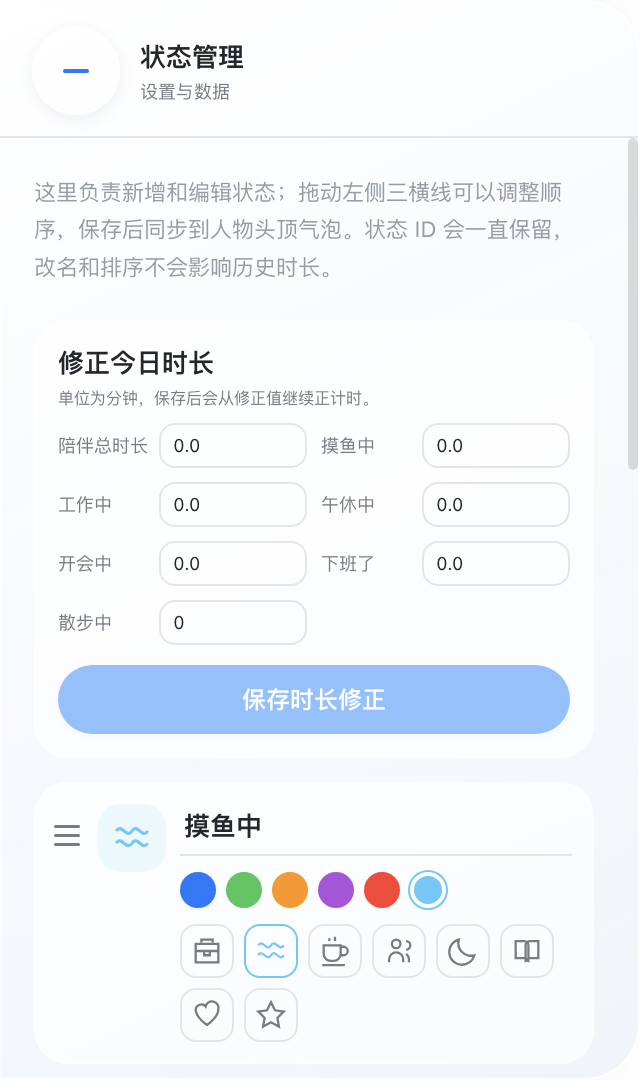
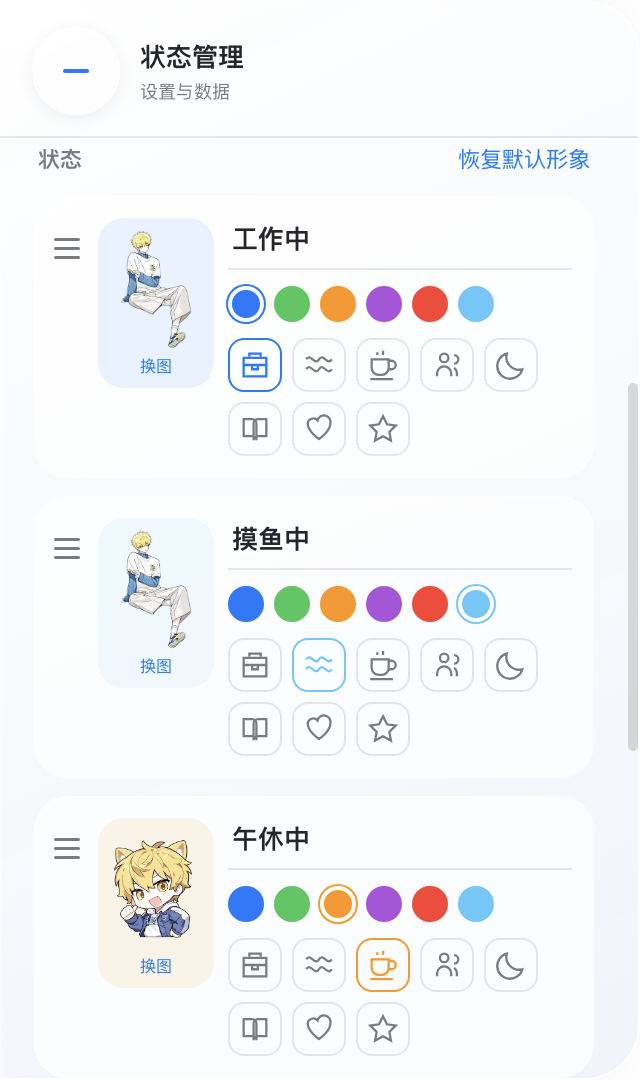
Pick each state's pet image in 状态管理; 贴图库 is library-only; reorder settings

diff --git a/src/renderer/src/WorkStateSettingsPanel.tsx b/src/renderer/src/WorkStateSettingsPanel.tsx
@@ -1,4 +1,5 @@
 import { useEffect,useState } from 'react'
+import type { SpriteKey, SpriteMap, UserSpriteItem } from '../../preload'
 import { DEFAULT_WORK_STATES,WORK_STATE_COLORS,WORK_STATE_ICONS,WORK_STATE_PATHS,type WorkStateDefinition } from '../../shared/workStates'
 
 export default function WorkStateSettingsPanel():React.JSX.Element{
@@ -6,6 +7,24 @@ export default function WorkStateSettingsPanel():React.JSX.Element{
   const [saved,setSaved]=useState(false)
   const [draggingId,setDraggingId]=useState<string|null>(null)
   const [dropTargetId,setDropTargetId]=useState<string|null>(null)
+  // Pet image per state: focus uses the idle image, other states `state-<id>` (falling back to the focus image).
+  const [sprites,setSprites]=useState<SpriteMap>({})
+  const [library,setLibrary]=useState<UserSpriteItem[]>([])
+  const [pickingFor,setPickingFor]=useState<string|null>(null)
+  const [confirmUnify,setConfirmUnify]=useState<string|null>(null)
+  const [confirmReset,setConfirmReset]=useState(false)
+  useEffect(()=>{
+    const load=()=>{window.api.getSprites().then(setSprites);window.api.getUserSprites().then(setLibrary)}
+    load()
+    return window.api.onSpritesUpdated(next=>{setSprites(next);window.api.getUserSprites().then(setLibrary)})
+  },[])
+  const spriteKey=(id:string):SpriteKey=>id==='focus'?'idle':`state-${id}`
+  const petImage=(id:string)=>sprites[spriteKey(id)]??sprites.idle??(id==='focus'?'./cat/idle.svg':'./cat/sleep.svg')
+  const useSticker=async(id:string,stickerId:string)=>{const url=await window.api.applyUserSpriteToPose(stickerId,spriteKey(id));if(url){setSprites(current=>({...current,[spriteKey(id)]:url}));setPickingFor(null)}}
+  const upload=async(id:string)=>{const url=await window.api.pickSprite(spriteKey(id));if(url){setSprites(current=>({...current,[spriteKey(id)]:url}));setPickingFor(null)}}
+  const unify=async(id:string)=>{const next=await window.api.unifyStateSprites(spriteKey(id));if(next)setSprites(next);setConfirmUnify(null);setPickingFor(null)}
+  const resetImages=async()=>{setSprites(await window.api.resetStateSprites());setConfirmReset(false)}
+  const hasCustomImages=Object.keys(sprites).some(key=>key==='idle'||key.startsWith('state-'))
   const [durationMinutes,setDurationMinutes]=useState<Record<string,string>>({})
   const [durationDirty,setDurationDirty]=useState<string[]>([])
   const loadDurations=async()=>{const snapshot=await window.api.getWorkState();setDurationMinutes({companion:(snapshot.companionSeconds/60).toFixed(1),...Object.fromEntries(Object.entries(snapshot.durations).map(([id,seconds])=>[id,(seconds/60).toFixed(1)]))});setDurationDirty([])}
@@ -16,5 +35,5 @@ export default function WorkStateSettingsPanel():React.JSX.Element{
   const moveBy=(id:string,delta:number)=>{setStates(items=>{const from=items.findIndex(item=>item.id===id),to=Math.max(0,Math.min(items.length-1,from+delta));if(from<0||from===to)return items;const next=[...items],[moved]=next.splice(from,1);next.splice(to,0,moved);return next});setSaved(false)}
   const changeDuration=(id:string,value:string)=>{setDurationMinutes(current=>({...current,[id]:value}));setDurationDirty(current=>current.includes(id)?current:[...current,id])}
   const saveDurations=async()=>{for(const id of durationDirty){const minutes=Number(durationMinutes[id]);if(!Number.isFinite(minutes)||minutes<0)return;await window.api.correctTodayDuration(id,minutes*60)}await loadDurations()}
-  return <div className="work-state-settings embedded-settings-panel"><p className="sprite-hint">这里负责新增和编辑状态；拖动左侧三横线可以调整顺序，保存后同步到人物头顶气泡。状态 ID 会一直保留，改名和排序不会影响历史时长。</p><section className="duration-correction"><div><strong>修正今日时长</strong><small>单位为分钟，保存后会从修正值继续正计时。</small></div><label><span>陪伴总时长</span><input aria-label="修正陪伴总时长" type="number" min="0" step="0.1" value={durationMinutes.companion??''} onChange={e=>changeDuration('companion',e.target.value)}/></label>{states.map(state=><label key={state.id}><span>{state.label}</span><input aria-label={`修正${state.label}时长`} type="number" min="0" step="0.1" value={durationMinutes[state.id]??'0'} onChange={e=>changeDuration(state.id,e.target.value)}/></label>)}<button className="primary-button" disabled={!durationDirty.length||durationDirty.some(id=>!Number.isFinite(Number(durationMinutes[id]))||Number(durationMinutes[id])<0)} onClick={()=>void saveDurations()}>保存时长修正</button></section><div className="work-state-editor-list">{states.map((state,index)=><div className={`work-state-editor${draggingId===state.id?' is-dragging':''}${dropTargetId===state.id&&draggingId!==state.id?' is-drop-target':''}`} key={state.id} style={{'--state-color':state.color} as React.CSSProperties} onDragOver={event=>{event.preventDefault();event.dataTransfer.dropEffect='move';setDropTargetId(state.id)}} onDragLeave={event=>{if(!event.currentTarget.contains(event.relatedTarget as Node))setDropTargetId(current=>current===state.id?null:current)}} onDrop={event=>{event.preventDefault();const source=draggingId||event.dataTransfer.getData('text/plain');if(source)moveTo(source,state.id);setDraggingId(null);setDropTargetId(null)}}><button className="state-drag-handle" type="button" draggable aria-label={`拖动${state.label}调整顺序`} title="拖动调整顺序" onDragStart={event=>{event.dataTransfer.effectAllowed='move';event.dataTransfer.setData('text/plain',state.id);setDraggingId(state.id)}} onDragEnd={()=>{setDraggingId(null);setDropTargetId(null)}} onKeyDown={event=>{if(event.key==='ArrowUp'){event.preventDefault();moveBy(state.id,-1)}else if(event.key==='ArrowDown'){event.preventDefault();moveBy(state.id,1)}}}><span/><span/><span/></button><div className="work-state-editor-icon"><svg viewBox="0 0 24 24" fill="none" stroke="currentColor" strokeWidth="1.7"><path d={WORK_STATE_PATHS[state.icon]}/></svg></div><div className="work-state-editor-main"><input aria-label={`状态名称 ${index+1}`} maxLength={12} value={state.label} onChange={e=>update(state.id,{label:e.target.value})}/><div className="state-palette">{WORK_STATE_COLORS.map(color=><button key={color} aria-label={`状态颜色 ${color}`} className={state.color===color?'selected':''} style={{background:color}} onClick={()=>update(state.id,{color})}/>)}</div><div className="state-icons">{WORK_STATE_ICONS.map(icon=><button key={icon} aria-label={`状态图标 ${icon}`} className={state.icon===icon?'selected':''} onClick={()=>update(state.id,{icon})}><svg viewBox="0 0 24 24" fill="none" stroke="currentColor" strokeWidth="1.6"><path d={WORK_STATE_PATHS[icon]}/></svg></button>)}</div></div></div>)}</div><button className="state-add" onClick={add}>＋ 添加状态</button><button className="primary-button state-save" disabled={states.some(s=>!s.label.trim())} onClick={async()=>{setStates(await window.api.setWorkStates(states));setSaved(true)}}>{saved?'已保存':'保存状态'}</button></div>
+  return <div className="work-state-settings embedded-settings-panel"><p className="sprite-hint">点左边的图片换这个状态的桌宠形象（立即生效）；右边改名称、颜色和图标，拖动三横线调整顺序，点「保存状态」后同步到头顶气泡。改名和排序不会影响历史时长和形象。</p><section className="duration-correction"><div><strong>修正今日时长</strong><small>单位为分钟，保存后会从修正值继续正计时。</small></div><label><span>陪伴总时长</span><input aria-label="修正陪伴总时长" type="number" min="0" step="0.1" value={durationMinutes.companion??''} onChange={e=>changeDuration('companion',e.target.value)}/></label>{states.map(state=><label key={state.id}><span>{state.label}</span><input aria-label={`修正${state.label}时长`} type="number" min="0" step="0.1" value={durationMinutes[state.id]??'0'} onChange={e=>changeDuration(state.id,e.target.value)}/></label>)}<button className="primary-button" disabled={!durationDirty.length||durationDirty.some(id=>!Number.isFinite(Number(durationMinutes[id]))||Number(durationMinutes[id])<0)} onClick={()=>void saveDurations()}>保存时长修正</button></section><div className="state-images-heading"><strong>状态</strong><button className="text-button" disabled={!hasCustomImages} onClick={()=>setConfirmReset(true)}>恢复默认形象</button></div>{confirmReset&&<div className="sprite-unify-confirm state-images-confirm" role="group" aria-label="确认恢复默认形象"><span>所有状态都恢复成默认的猫？贴图库里的图不受影响。</span><button onClick={()=>setConfirmReset(false)}>取消</button><button className="primary-button" onClick={()=>void resetImages()}>恢复</button></div>}<div className="work-state-editor-list">{states.map((state,index)=><div className={`work-state-editor${draggingId===state.id?' is-dragging':''}${dropTargetId===state.id&&draggingId!==state.id?' is-drop-target':''}`} key={state.id} style={{'--state-color':state.color} as React.CSSProperties} onDragOver={event=>{event.preventDefault();event.dataTransfer.dropEffect='move';setDropTargetId(state.id)}} onDragLeave={event=>{if(!event.currentTarget.contains(event.relatedTarget as Node))setDropTargetId(current=>current===state.id?null:current)}} onDrop={event=>{event.preventDefault();const source=draggingId||event.dataTransfer.getData('text/plain');if(source)moveTo(source,state.id);setDraggingId(null);setDropTargetId(null)}}><button className="state-drag-handle" type="button" draggable aria-label={`拖动${state.label}调整顺序`} title="拖动调整顺序" onDragStart={event=>{event.dataTransfer.effectAllowed='move';event.dataTransfer.setData('text/plain',state.id);setDraggingId(state.id)}} onDragEnd={()=>{setDraggingId(null);setDropTargetId(null)}} onKeyDown={event=>{if(event.key==='ArrowUp'){event.preventDefault();moveBy(state.id,-1)}else if(event.key==='ArrowDown'){event.preventDefault();moveBy(state.id,1)}}}><span/><span/><span/></button><button className={`state-image-tile${pickingFor===state.id?' active':''}`} aria-label={`更换「${state.label}」的桌宠形象`} aria-expanded={pickingFor===state.id} onClick={()=>{setConfirmUnify(null);setPickingFor(current=>current===state.id?null:state.id)}}><img src={petImage(state.id)} alt=""/><span>换图</span></button><div className="work-state-editor-main"><input aria-label={`状态名称 ${index+1}`} maxLength={12} value={state.label} onChange={e=>update(state.id,{label:e.target.value})}/><div className="state-palette">{WORK_STATE_COLORS.map(color=><button key={color} aria-label={`状态颜色 ${color}`} className={state.color===color?'selected':''} style={{background:color}} onClick={()=>update(state.id,{color})}/>)}</div><div className="state-icons">{WORK_STATE_ICONS.map(icon=><button key={icon} aria-label={`状态图标 ${icon}`} className={state.icon===icon?'selected':''} onClick={()=>update(state.id,{icon})}><svg viewBox="0 0 24 24" fill="none" stroke="currentColor" strokeWidth="1.6"><path d={WORK_STATE_PATHS[icon]}/></svg></button>)}</div></div>{pickingFor===state.id&&<div className="sprite-pose-picker state-image-picker" aria-label={`为「${state.label}」选择桌宠形象`}>{library.length?<div className="sprite-pose-picker-grid">{library.map(item=><button key={item.id} title={item.name} aria-label={`${state.label}使用 ${item.name}`} aria-pressed={sprites[spriteKey(state.id)]===item.url} className={sprites[spriteKey(state.id)]===item.url?'selected':''} onClick={()=>void useSticker(state.id,item.id)}><img src={item.url} alt=""/><span>{item.name}</span></button>)}</div>:<p className="sprite-library-empty">贴图库还是空的，可以直接从电脑上传</p>}{confirmUnify===state.id?<div className="sprite-unify-confirm" role="group" aria-label="确认统一状态形象"><span>所有状态都换成这张图？各状态单独选的图会被替换。</span><button onClick={()=>setConfirmUnify(null)}>取消</button><button className="primary-button" onClick={()=>void unify(state.id)}>统一</button></div>:<div className="sprite-pose-picker-actions"><button aria-label={`所有状态都用「${state.label}」的图`} onClick={()=>setConfirmUnify(state.id)}>全部统一</button><button onClick={()=>setPickingFor(null)}>收起</button><button className="primary-button" onClick={()=>void upload(state.id)}>从电脑上传…</button></div>}</div>}</div>)}</div><button className="state-add" onClick={add}>＋ 添加状态</button><button className="primary-button state-save" disabled={states.some(s=>!s.label.trim())} onClick={async()=>{setStates(await window.api.setWorkStates(states));setSaved(true)}}>{saved?'已保存':'保存状态'}</button></div>
 }

diff --git a/src/renderer/src/SpriteSettingsPanel.tsx b/src/renderer/src/SpriteSettingsPanel.tsx
@@ -1,70 +1,9 @@
 import { Fragment, useEffect, useRef, useState } from 'react'
-import type { SpriteKey, SpriteMap, UserSpriteItem } from '../../preload'
-import type { WorkStateDefinition } from '../../shared/workStates'
-
-type Pose =
-  | 'idle'
-  | 'sleep'
-  | 'notifyIcon'
-
-const DEFAULT_IMAGES: Record<Pose, string> = {
-  idle: './cat/idle.svg',
-  sleep: './cat/sleep.svg',
-  notifyIcon: './cat/notifyIcon.svg'
-}
+import type { UserSpriteItem } from '../../preload'
 
 
-/** One work state: its current image, with the sticker library laid out beside it to pick from. */
-function StateSpriteRow({
-  pose,
-  label,
-  defaultUrl,
-  customUrl,
-  inheritedUrl,
-  library,
-  onUpload,
-  onUseLibrary,
-  onUnify
-}: {
-  pose: SpriteKey
-  label: string
-  defaultUrl: string
-  customUrl?: string
-  /** Image actually shown when this state has none of its own. */
-  inheritedUrl?: string
-  library: UserSpriteItem[]
-  onUpload: (pose: SpriteKey) => void
-  onUseLibrary: (pose: SpriteKey, id: string) => void
-  /** Give every state this row's current image. */
-  onUnify: (pose: SpriteKey) => void
-}): React.JSX.Element {
-  const [confirmUnify, setConfirmUnify] = useState(false)
-  const shown = customUrl ?? inheritedUrl ?? defaultUrl
-  const stripRef = useRef<HTMLDivElement>(null)
-  // Bring the selected sticker into view inside its strip (without scrolling the panel).
-  useEffect(() => {
-    const strip = stripRef.current, selected = strip?.querySelector<HTMLElement>('button.selected')
-    if (strip && selected) strip.scrollLeft = selected.offsetLeft - strip.offsetLeft - (strip.clientWidth - selected.offsetWidth) / 2
-  }, [customUrl, library.length])
-  return (
-    <div className="state-sprite-row">
-      <div className="state-sprite-head">
-        <img className="sprite-preview" src={shown} alt="" />
-        <strong>{label}</strong>
-        <button className="text-button" aria-label={`所有状态都用「${label}」的图`} onClick={() => setConfirmUnify(true)}>全部统一</button>
-      </div>
-      <div ref={stripRef} className="state-sprite-strip" role="group" aria-label={`为「${label}」选择贴图`}>
-        {library.map(item => <button key={item.id} title={item.name} aria-label={`${label}使用 ${item.name}`} aria-pressed={item.url === customUrl} className={item.url === customUrl ? 'selected' : ''} onClick={() => onUseLibrary(pose, item.id)}><img src={item.url} alt="" /></button>)}
-        <button className="state-sprite-upload" aria-label={`为「${label}」从电脑上传`} onClick={() => onUpload(pose)}>＋<span>上传</span></button>
-      </div>
-      {confirmUnify && <div className="sprite-unify-confirm" role="group" aria-label="确认统一状态贴图"><span>所有状态都换成这张图？各状态单独选的图会被替换。</span><button onClick={() => setConfirmUnify(false)}>取消</button><button className="primary-button" onClick={() => { setConfirmUnify(false); onUnify(pose) }}>统一</button></div>}
-    </div>
-  )
-}
 
 function SpriteSettingsPanel({ embedded = false, onClose }: { embedded?: boolean; onClose?: () => void } = {}): React.JSX.Element {
-  const [sprites, setSprites] = useState<SpriteMap>({})
-  const [workStates, setWorkStates] = useState<WorkStateDefinition[]>([])
   const [library,setLibrary]=useState<UserSpriteItem[]>([])
   const [tags,setTags]=useState<string[]>([])
   const [selectedTags,setSelectedTags]=useState<string[]>([])
@@ -79,16 +18,6 @@ function SpriteSettingsPanel({ embedded = false, onClose }: { embedded?: boolean
   const tagFilterRef=useRef<HTMLDivElement>(null)
   const refreshLibrary=()=>Promise.all([window.api.getUserSprites(),window.api.getUserSpriteTags()]).then(([items,availableTags])=>{setLibrary(items);setTags(availableTags)})
 
-  useEffect(() => {
-    window.api.getSprites().then(setSprites)
-    return window.api.onSpritesUpdated(setSprites)
-  }, [])
-  useEffect(() => {
-    const loadStates = () => { window.api.getWorkStates().then(setWorkStates) }
-    loadStates()
-    // Saving the state list broadcasts a work-state update; pick up renamed/added states.
-    return window.api.onWorkStateUpdated(loadStates)
-  }, [])
 
   useEffect(() => {
     refreshLibrary()
@@ -101,15 +30,6 @@ function SpriteSettingsPanel({ embedded = false, onClose }: { embedded?: boolean
     measure();const observer=new ResizeObserver(measure);observer.observe(node)
     return()=>observer.disconnect()
   },[tags])
-
-  const handlePick = async (pose: SpriteKey): Promise<void> => {
-    const dataUrl = await window.api.pickSprite(pose)
-    if (dataUrl) { setSprites((prev) => ({ ...prev, [pose]: dataUrl }));await refreshLibrary() }
-  }
-  const useLibraryForPose = async (pose: SpriteKey, id: string): Promise<void> => {
-    const dataUrl = await window.api.applyUserSpriteToPose(id, pose)
-    if (dataUrl) setSprites((prev) => ({ ...prev, [pose]: dataUrl }))
-  }
 
   const addToLibrary = async (): Promise<void> => {
     if (await window.api.addSpriteToLibrary()) await refreshLibrary()
@@ -136,39 +56,16 @@ function SpriteSettingsPanel({ embedded = false, onClose }: { embedded?: boolean
     await refreshLibrary();setManagingTags(false)
   }
 
-  const [confirmReset, setConfirmReset] = useState(false)
-  const resetAll = async (): Promise<void> => { setConfirmReset(false); setSprites(await window.api.resetStateSprites()) }
 
   const spriteEditor=editing&&<div className="sprite-library-editor" aria-label="贴图标签编辑器"><strong>整理「{editing.name}」</strong><label>名称<input value={editing.name} placeholder="贴图名称" onChange={e=>setEditing({...editing,name:e.target.value})}/></label><label>自定义标签<input aria-label="贴图标签" value={tagText} placeholder="#全职高手 #黄少天" onChange={e=>setTagText(e.target.value)}/></label>{tags.length>0&&<div className="sprite-tag-suggestions" aria-label="选择已有标签">{tags.map(tag=><button key={tag} type="button" aria-pressed={parseTags(tagText).includes(tag)} className={parseTags(tagText).includes(tag)?'selected':''} onClick={()=>toggleEditorTag(tag)}>#{tag}</button>)}</div>}<small>可直接点选已有标签，也可以输入新标签；用空格、逗号或 # 分隔。</small><div><button onClick={()=>setEditing(null)}>取消</button><button className="primary-button" onClick={async()=>{const updated=await window.api.updateUserSprite(editing.id,{name:editing.name,tags:parseTags(tagText)});if(updated)await refreshLibrary();setEditing(null)}}>保存标签</button></div></div>
 
-  // Focus keeps the idle image; every other state can have its own image and
-  // otherwise follows the focus image.
-  const stateRows: { key: SpriteKey; label: string; inherited?: string; fallback: string }[] = [
-    ...(workStates.some(state => state.id === 'focus') ? [] : [{ key: 'idle' as SpriteKey, label: '待机', fallback: DEFAULT_IMAGES.idle }]),
-    ...workStates.map(state => state.id === 'focus'
-      ? { key: 'idle' as SpriteKey, label: state.label, fallback: DEFAULT_IMAGES.idle }
-      : { key: `state-${state.id}` as SpriteKey, label: state.label, inherited: sprites.idle, fallback: DEFAULT_IMAGES.sleep })
-  ]
-  const unify = async (key: SpriteKey): Promise<void> => {
-    const updated = await window.api.unifyStateSprites(key)
-    if (updated) setSprites(updated)
-  }
-
   return (
     <div className={`sprite-settings-panel${embedded ? ' embedded-settings-panel' : ''}`}>
-      <h1>更换贴图</h1>
-      <p className="sprite-hint">选好后桌宠窗口会实时更新，不用重启 App。</p>
+      <h1>贴图库</h1>
+      <p className="sprite-hint">在这里收集和整理图片。每个状态用哪张，在「状态管理」里选；消息头像在「提醒与报时」里选。</p>
       <div className="sprite-scroll">
 
 
-
-        <div className="sprite-library-heading sprite-state-heading"><div className="sprite-section-title">状态贴图</div><button className="text-button" disabled={!stateRows.some(row => sprites[row.key])} onClick={() => setConfirmReset(true)}>恢复默认</button></div>
-        {confirmReset && <div className="sprite-unify-confirm sprite-reset-confirm" role="group" aria-label="确认恢复默认贴图"><span>所有状态都恢复成默认的猫？贴图库里的图不受影响。</span><button onClick={() => setConfirmReset(false)}>取消</button><button className="primary-button" onClick={() => void resetAll()}>恢复</button></div>}
-        <div className="sprite-rows">
-          {stateRows.map(({ key, label, inherited, fallback }) => (
-            <StateSpriteRow key={key} pose={key} label={label} defaultUrl={fallback} customUrl={sprites[key]} inheritedUrl={inherited} library={library} onUpload={handlePick} onUseLibrary={useLibraryForPose} onUnify={unify} />
-          ))}
-        </div>
 
         <section className="user-sprite-library"><div className="sprite-library-heading"><div className="sprite-section-title">贴图库</div><div className="sprite-library-heading-actions"><button className="text-button" onClick={() => void addToLibrary()}>添加贴图…</button><button className="text-button" onClick={beginTagManagement}>编辑</button></div></div>{managingTags&&<div className="sprite-tag-manager" aria-label="管理贴图库标签"><strong>编辑标签栏目</strong><div className="sprite-tag-add"><input aria-label="新标签名称" value={newTag} placeholder="输入新标签" onChange={event=>setNewTag(event.target.value)} onKeyDown={event=>{if(event.key==='Enter'){event.preventDefault();addManagedTag()}}}/><button type="button" disabled={!newTag.trim()} onClick={addManagedTag}>＋ 添加</button></div>{Object.keys(tagDrafts).map(tag=><label key={tag} className={tagDrafts[tag]===null?'is-removed':''}><button className="tag-remove" type="button" aria-label={`${tagDrafts[tag]===null?'恢复':'删除'}标签 ${tag}`} onClick={()=>setTagDrafts(current=>({...current,[tag]:current[tag]===null?tag:null}))}>{tagDrafts[tag]===null?'↶':'−'}</button><span>#</span><input aria-label={`编辑标签 ${tag}`} disabled={tagDrafts[tag]===null} value={tagDrafts[tag]??tag} onChange={event=>setTagDrafts(current=>({...current,[tag]:event.target.value}))}/></label>)}<small>新增标签会保留在栏目中；改名或删除会同步所有贴图和消息随机池。</small><div><button onClick={()=>setManagingTags(false)}>取消</button><button className="primary-button" onClick={()=>void saveManagedTags()}>完成</button></div></div>}<div ref={tagFilterRef} className={`sprite-tag-filter${tagsExpanded?' expanded':' collapsed'}`} aria-label="贴图标签筛选"><button className={!selectedTags.length?'selected':''} onClick={()=>setSelectedTags([])}>全部</button>{tags.map(tag=><button key={tag} aria-pressed={selectedTags.includes(tag)} className={selectedTags.includes(tag)?'selected':''} onClick={()=>toggleFilterTag(tag)}>#{tag}</button>)}</div>{tagsOverflowing&&<button className="sprite-tag-filter-toggle" aria-label={tagsExpanded?'收起标签':'展开全部标签'} aria-expanded={tagsExpanded} onClick={()=>setTagsExpanded(value=>!value)}>{tagsExpanded?'⌃':'⌄'}</button>}<div className="user-sprite-grid">{visibleLibrary.map(item=><Fragment key={item.id}><div className="user-sprite-cell"><article className="user-sprite-card"><img src={item.url} alt=""/><div><strong>{item.name}</strong><small>{item.tags.length?item.tags.map(tag=>`#${tag}`).join(' '):'暂无标签'}</small></div><div className="user-sprite-actions"><button onClick={()=>{setEditing({...item});setTagText(item.tags.map(tag=>`#${tag}`).join(' '))}}>编辑标签</button><button className="danger" aria-label={`删除贴图 ${item.name}`} onClick={()=>setPendingDelete(item.id)}>删除</button></div>{pendingDelete===item.id&&<div className="user-sprite-delete-confirm" role="group" aria-label="确认删除贴图"><span>从贴图库删除？</span><button onClick={()=>setPendingDelete(null)}>取消</button><button className="danger" onClick={async()=>{await window.api.deleteUserSprite(item.id);setPendingDelete(null);if(editing?.id===item.id)setEditing(null);await refreshLibrary()}}>删除</button></div>}</article>{editing?.id===item.id&&spriteEditor}</div></Fragment>)}</div>{!visibleLibrary.length&&<p className="sprite-library-empty">{library.length?'没有同时包含这些标签的贴图':'贴图库还是空的，点右上角「添加贴图…」放进第一张'}</p>}</section>
 

diff --git a/src/renderer/src/DataPanel.tsx b/src/renderer/src/DataPanel.tsx
@@ -45,10 +45,10 @@ export default function DataPanel({ onOpenDetail }: { onOpenDetail: (detail: Set
   return <section className="glass-view settings-view"><div className="glass-view-header"><div><h2>随你的心意</h2><p className="view-subtitle">外观、偏好与每一份记录。</p></div></div>
     <div className="appearance-group"><span className="section-caption">外观</span><div className="appearance-options" aria-label="外观模式">{([['light', '☀', '浅色'], ['dark', '☾', '深色'], ['system', '◐', '跟随系统']] as const).map(([mode, icon, label]) => <button key={mode} aria-pressed={theme === mode} className={theme === mode ? 'selected' : ''} onClick={() => changeTheme(mode)}><span>{icon}</span>{label}</button>)}</div></div>
     <div className="accent-group"><span className="section-caption">基础色</span><div className="accent-swatches" aria-label="界面基础色">{ACCENT_PRESETS.map(item=><button key={item.color} aria-label={item.label} aria-pressed={accent===item.color} className={accent===item.color?'selected':''} style={{'--swatch':item.color} as React.CSSProperties} onClick={()=>changeAccent(item.color)}><span /></button>)}<label className="accent-picker" aria-label="自选颜色"><input type="color" value={accent} onChange={e=>changeAccent(e.target.value)}/><span>＋</span></label></div><p>颜色会用于按钮、选中状态和界面的轻微染色。</p></div>
-    <div className="settings-group"><button className="settings-link" onClick={() => onOpenDetail('sprites')}><span>✧　桌宠与贴图</span><span>›</span></button>
+    <div className="settings-group"><button className="settings-link" onClick={() => onOpenDetail('states')}><span>◌　状态管理</span><span>›</span></button>
       <button className="settings-link" onClick={() => onOpenDetail('window')}><span>◫　大小与透明度</span><span>›</span></button>
-      <button className="settings-link" onClick={() => onOpenDetail('states')}><span>◌　状态管理</span><span>›</span></button>
-      <button className="settings-link" onClick={() => onOpenDetail('notifications')}><span>◉　提醒与报时</span><span>›</span></button></div>
+      <button className="settings-link" onClick={() => onOpenDetail('notifications')}><span>◉　提醒与报时</span><span>›</span></button>
+      <button className="settings-link" onClick={() => onOpenDetail('sprites')}><span>✧　贴图库</span><span>›</span></button></div>
     <h3 className="section-caption">启动方式</h3><div className="settings-group startup-group"><div><strong>开机自动启动</strong><small>登录电脑后自动打开桌宠，无需再通过终端启动。</small></div><button type="button" aria-label="开机自动启动" aria-pressed={startupEnabled} disabled={startupBusy} className={`notice-rule-toggle${startupEnabled?' on':''}`} onClick={changeStartup}/></div>
     <h3 className="section-caption">数据备份</h3><div className="settings-group backup-group"><h3>把陪伴好好收藏</h3><p>导出任务、日记与图片、累计统计、状态历史、设置和自定义桌宠。使用同一份文件即可恢复。</p>
       <div className="backup-actions"><button className="primary-button" disabled={busy} onClick={() => transfer(false)}>导出全部记录</button><button className="secondary-button" disabled={busy} onClick={() => transfer(true)}>导入备份</button></div></div>

diff --git a/src/renderer/src/styles.css b/src/renderer/src/styles.css
@@ -1689,4 +1689,17 @@ h1,h2,h3,p {
 .state-sprite-strip .state-sprite-upload span { font-size:calc(8px * var(--panel-font-scale,1)); margin-top:2px; }
 .state-sprite-row .sprite-unify-confirm { border-radius:10px; }
 .user-sprite-library { margin-top:14px; }
+/* 状态管理: pet image on the left of each state card, picker below it. */
+.work-state-editor { flex-wrap:wrap; }
+.state-image-tile { flex:none; width:58px; display:flex; flex-direction:column; align-items:center; gap:3px; padding:4px; border:1.5px solid transparent; border-radius:13px; background:color-mix(in srgb,var(--state-color) 9%,transparent); color:var(--blue); }
+.state-image-tile img { width:48px; height:60px; object-fit:contain; }
+.state-image-tile span { font-size:calc(8px * var(--panel-font-scale,1)); }
+.state-image-tile.active, .state-image-tile:hover { border-color:color-mix(in srgb,var(--state-color) 60%,transparent); }
+.state-image-picker { flex-basis:100%; margin-top:4px; padding:8px 0 0; background:transparent; border-top:1px solid var(--line); border-radius:0; }
+.state-image-picker .sprite-pose-picker-grid button.selected { border-color:var(--accent-base); background:color-mix(in srgb,var(--accent-base) 12%,transparent); }
+.state-image-picker .sprite-unify-confirm { margin-top:8px; border-radius:10px; }
+.state-images-heading { display:flex; align-items:center; justify-content:space-between; margin:14px 2px 8px; }
+.state-images-heading strong { font-size:calc(11px * var(--panel-font-scale,1)); color:var(--secondary); font-weight:600; }
+.state-images-heading .text-button:disabled { opacity:.4; }
+.state-images-confirm { margin-bottom:8px; border-radius:12px; }
 

diff --git a/src/renderer/src/HubDetailPanel.tsx b/src/renderer/src/HubDetailPanel.tsx
@@ -25,7 +25,7 @@ export default function HubDetailPanel():React.JSX.Element{
     const off=window.api.onHubDetailChanged(next=>{if(closeTimer.current!==null)window.clearTimeout(closeTimer.current);closeTimer.current=null;setDetail(next);setPhase('open')})
     return()=>{if(closeTimer.current!==null)window.clearTimeout(closeTimer.current);offReveal();offClose();off()}
   },[])
-  const title=detail==='sprites'?'桌宠与贴图':detail==='window'?'大小与透明度':detail==='states'?'状态管理':'提醒与报时'
+  const title=detail==='sprites'?'贴图库':detail==='window'?'大小与透明度':detail==='states'?'状态管理':'提醒与报时'
   return <div className={`hub-detail-window hub-detail-window--${direction} hub-detail-window--${phase}`}>
     <aside className="hub-detail-sheet" aria-label="设置延伸面板">
       <div className="hub-split-handle" role="separator" aria-label="调整主界面与侧栏占比" aria-orientation="vertical" onPointerDown={event=>{event.currentTarget.setPointerCapture(event.pointerId);window.api.resizeHubSplit(event.screenX)}} onPointerMove={event=>{if(event.currentTarget.hasPointerCapture(event.pointerId))window.api.resizeHubSplit(event.screenX)}} onPointerUp={event=>event.currentTarget.releasePointerCapture(event.pointerId)} />

diff --git a/src/main/tray.ts b/src/main/tray.ts
@@ -49,7 +49,7 @@ export function createTray(callbacks: TrayCallbacks): TrayHandle {
       { type: 'separator' },
       { label: '当前状态与计时', click: () => callbacks.openStatus() },
       { label: '陪伴手帐（任务 / 日记 / 备份）', click: () => callbacks.openHub() },
-      { label: '更换贴图', click: () => callbacks.openSpriteSettings() },
+      { label: '贴图库', click: () => callbacks.openSpriteSettings() },
       { label: '窗口设置', click: () => callbacks.openWindowSettings() },
       ...(callbacks.isKeyTrackingActive()
         ? []

diff --git a/README.md b/README.md
@@ -200,10 +200,9 @@ npm run dist:mac
   <img src="docs/images/sprite-library.png" width="300" alt="贴图库">
 </p>
 
-- 内置一套猫咪形象，也可以上传自己喜欢的透明背景图片（PNG / JPG / WebP / GIF）当桌宠。
-- 每个状态都可以用不同的形象：「工作中」显示待机图，摸鱼、午休、开会、下班以及你自己新增的状态都能单独选图；没单独设置的状态显示「通用默认图」。
-- 每个状态旁边直接排着贴图库里的图，点一下就换，也可以从电脑上传；「全部统一」一键让所有状态用同一张图。
-- 所有图片都放进「贴图库」，可以给它们加标签、按标签筛选，不要的贴图可以直接删除。
+- 内置一套猫咪形象，也可以用自己喜欢的透明背景图片（PNG / JPG / WebP / GIF）当桌宠。
+- 「贴图库」用来收集和整理图片：添加、按标签筛选、编辑标签、删除。
+- 每个状态用哪张图，在「状态管理」里选（见下方[自定义状态](#自定义状态)）；消息头像在「提醒与报时」里选。
 - 项目自带 12 张《全职高手》角色贴图（8 张角色立绘、4 张黄少天表情），已按人物打好标签（如 `#全职高手` `#黄少天`），第一次打开时会自动加入贴图库，并把 `#全职高手` + `#黄少天` 设为消息头像的随机池。
 
 ### 消息提醒
@@ -227,7 +226,9 @@ npm run dist:mac
   <img src="docs/images/status-settings.png" width="300" alt="状态管理">
 </p>
 
-可以新增状态，或修改任意状态的名称、颜色和图标；改名不会影响已经记录的时长。也可以手动修正今天某个状态的时长。
+- 每个状态一张卡片：**左边是这个状态的桌宠形象**，点一下从贴图库里选，或从电脑上传；右边改名称、颜色和图标。
+- 没单独选图的状态跟随「工作中」的形象；「全部统一」一键让所有状态用同一张图，「恢复默认形象」一键换回默认的猫。
+- 可以新增状态、拖动调整顺序；改名和排序不会影响已经记录的时长和形象。也可以手动修正今天某个状态的时长。
 
 ### 外观
 
